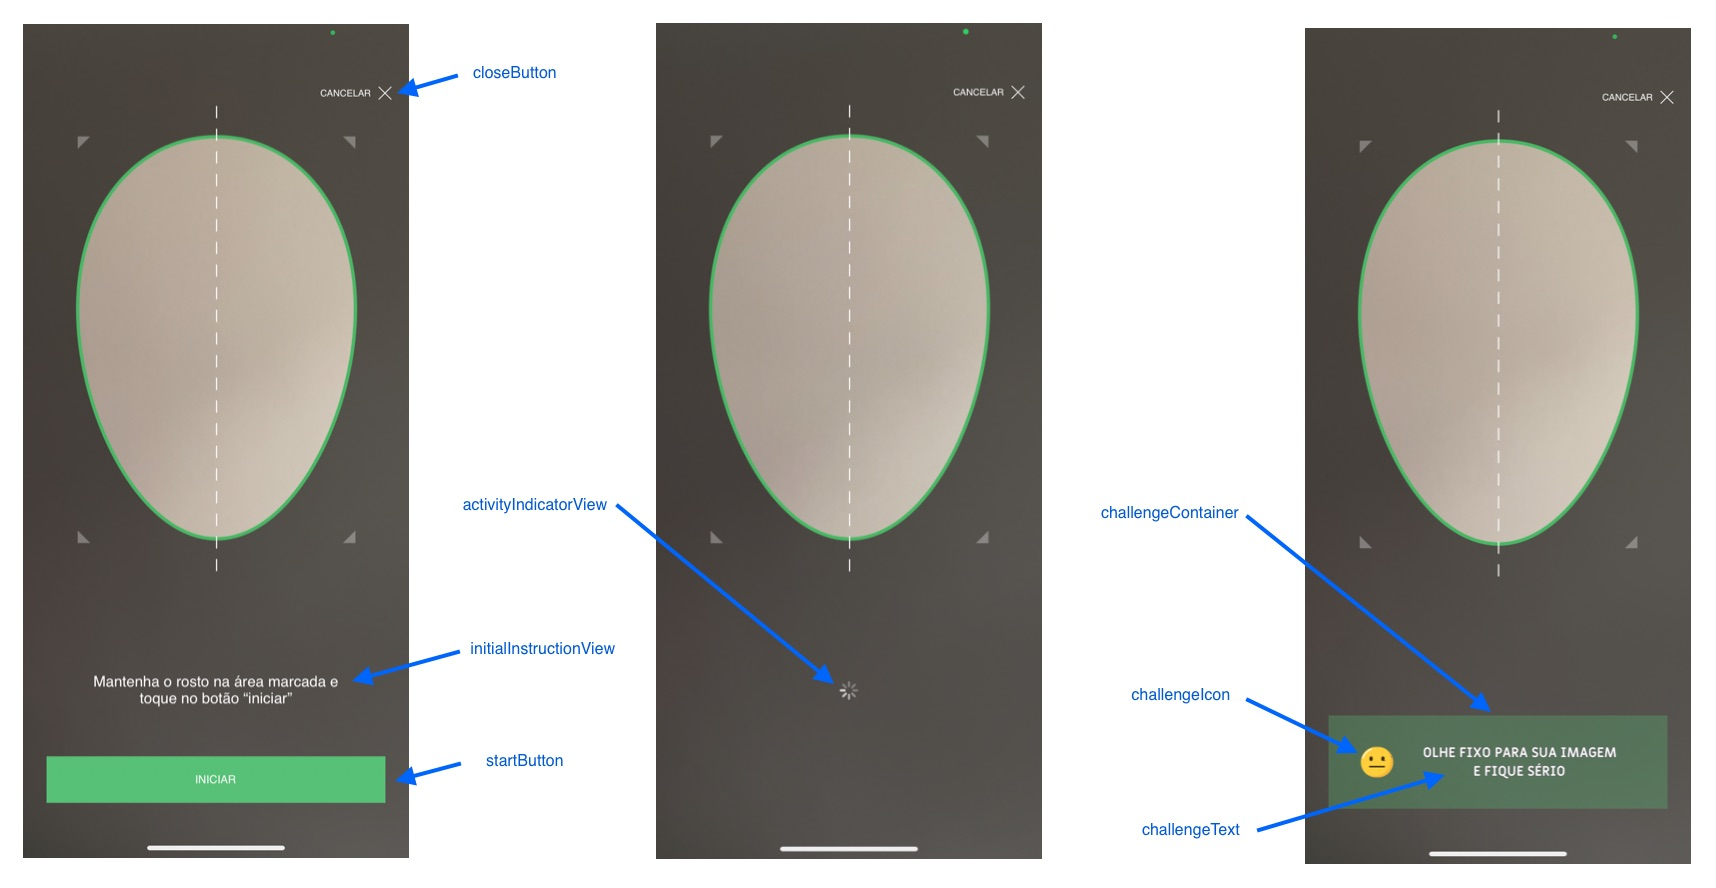
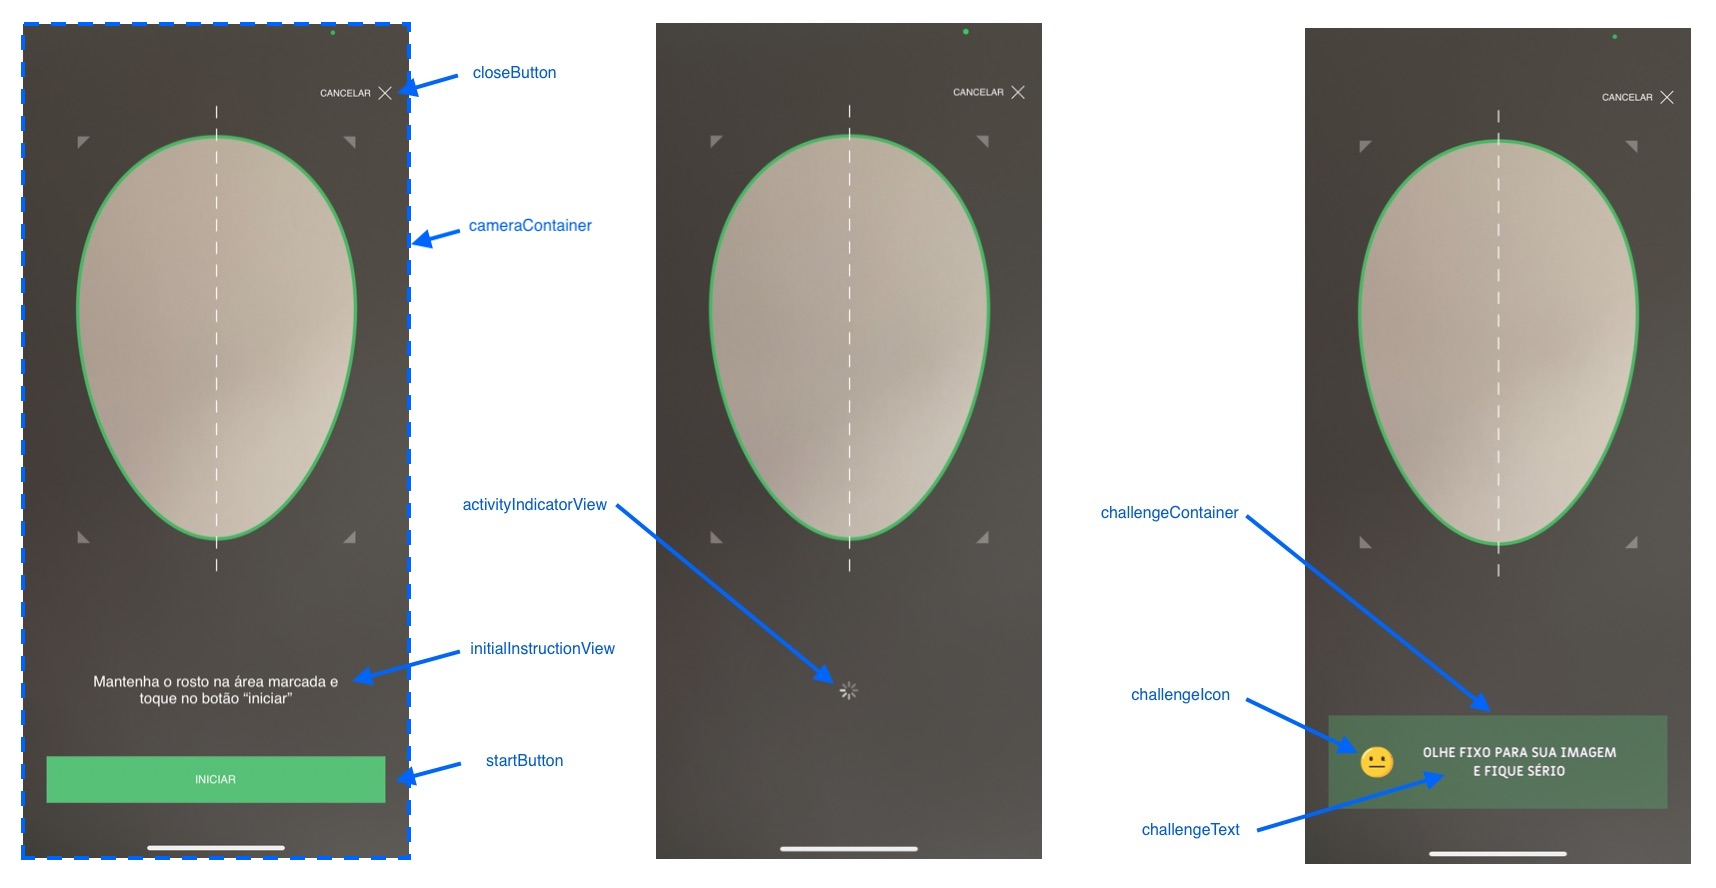
Documentation for 3.0.0.

Changed region(s): [[0.0, 0.9426, 0.2471, 0.973], [0.0309, 0.0, 0.2162, 0.0304], [0.2162, 0.2432, 0.3397, 0.2736]]

diff --git a/SampleFaceCaptcha/SampleFaceCaptcha/CustomViews/DocConfirmationCustomView.swift b/SampleFaceCaptcha/SampleFaceCaptcha/CustomViews/DocConfirmationCustomView.swift
@@ -14,7 +14,7 @@ class DocConfirmationCustomView: UIView, DocConfirmationView {
 
     @IBOutlet weak var view: UIView!
 
-    // MARK: - FCView
+    // MARK: - DocConfirmationView
 
     @IBOutlet weak var container: UIView!
     @IBOutlet weak var pictureTwoContainer: UIView!

diff --git a/SampleFaceCaptcha/SampleFaceCaptcha/CustomViews/FaceCaptchaCustomView.swift b/SampleFaceCaptcha/SampleFaceCaptcha/CustomViews/FaceCaptchaCustomView.swift
@@ -14,7 +14,7 @@ class FaceCaptchaCustomView: UIView, FaceCaptchaView {
 
     @IBOutlet weak var view: UIView!
 
-    // MARK: - FCView
+    // MARK: - FaceCaptchaView
 
     @IBOutlet weak var cameraContainer: CameraPreviewView!
     @IBOutlet weak var startButton: UIButton!

diff --git a/Documentation/FaceCaptcha-Usage.md b/Documentation/FaceCaptcha-Usage.md
@@ -1,0 +1,102 @@
+# Liveness - Prova de Vida
+
+Guia de uso e integração do Liveness para iOS.
+
+### Iniciando o FaceCaptcha
+
+1. Importe o FaceCaptcha no controller onde irá usá-lo:
+```swift
+import FaceCaptcha
+```
+
+2. Instancie `DocumentscopyViewController`, passando os seguintes parâmetros:
+- *appKey*: App Key recebida previamente.
+- *baseURL*: URL apontando para o ambiente desejado.
+- *delegate*: delegate que implementará os métodos para tratar o retorno do FaceCaptcha.
+```swift
+let controller = FaceCaptchaViewController(appKey: appKey,
+                                           baseURL: baseURL,
+                                           delegate: self)
+```
+
+3. Apresente o controller instanciado:
+```swift
+controller.modalPresentationStyle = .fullScreen
+present(controller, animated: true, completion: nil)
+```
+
+### Customização
+
+Além de poder usar o SDK em sua forma padrão de exibição, são fornecidas duas formas de customização:
+
+1. Imagem de fundo customizada:
+Para exibir uma imagem de fundo (overlay da câmera) customizada, basta passar a imagem desejada para o construtor do `FaceCaptchaViewController`, através do parâmetro `cameraOverlay`. Exemplo:
+```swift
+let controller = FaceCaptchaViewController(appKey: appKey,
+                                           baseURL: baseURL,
+                                           delegate: self,
+                                           cameraOverlay: UIImage(named: "custom_overlay")
+```
+
+2. Visual completamente customizado:
+É possível configurar completamente o visual exibido pelo FaceCaptcha. Para isso, é necessário criar uma UIView que implemente o protocolo `FaceCaptchaView`, e passá-la para o construtor do `FaceCaptchaViewController` através do parâmetro `customView`. Exemplo:
+```swift
+// MyCustomView must implement FaceCaptchaView
+let customView: FaceCaptchaView = MyCustomView(frame: view.bounds)
+let controller = FaceCaptchaViewController(appKey: appKey,
+                                           baseURL: baseURL,
+                                           delegate: self,
+                                           customView: customView)
+```
+Detalhes de como implementar a view customizada são encontrados [neste link](FaceCaptcha-CustomView.md).
+
+
+### Tratando o retorno
+
+1. Implemente o protocolo `FaceCaptchaDelegate` para ser notificado sobre a conclusão da prova de vida:
+```swift
+public protocol FaceCaptchaDelegate: class {
+    func handleFaceCaptchaValidation(validateModel: FCValidCaptchaModel)
+    func handleFaceCaptchaError(error: FaceCaptchaError)
+    func handleFaceCaptchaCanceled()
+}
+```
+
+Este protocolo contém dois métodos:
+
+- *handleFaceCaptchaValidation*: recebe um objeto do tipo `FCValidCaptchaModel`, no qual é possível verificar se a prova de vida foi válida, e, caso não tenha sido, o motivo pelo qual falhou.
+- *handleFaceCaptchaError*: recebe um enum do tipo `FaceCaptchaError`, que indica o erro ocorrido.
+- *handleFaceCaptchaCanceled*: método chamado se o usuário clicar no botão fechar/cancelar.
+
+**Importante:** em todos os métodos, deve-se fazer o dismiss do controller:
+```swift
+dismiss(animated: true, completion: nil)
+```
+
+`FaceCaptchaError` pode assumir os seguintes valores:
+```swift
+/// Erros que podem ser retornados pelo FaceCaptcha.
+public enum FaceCaptchaError {
+
+    /// App Key inválido.
+    case invalidAppKey
+    /// Certiface offline.
+    case certifaceOff
+    /// Não foi concedida permissão de acesso à câmera do aparelho.
+    case noCameraPermission
+    /// Sem conexão à Internet.
+    case noInternetConnection
+    /// Chamada telefônica em andamento. Não é possível iniciar o desafio durante uma chamada telefônica.
+    case phoneCallInProgress
+    /// Erro na requisição de validação dos desafios.
+    case validationError
+    /// App foi minimizado durante o uso do FaceCaptcha, isso faz com que o desafio seja encerrado.
+    case challengeInterrupted
+    /// Erro inesperado em algum request
+    case requestError
+    /// Falha em configurar câmera
+    case errorCameraSetup
+    /// Erro ao capturar foto
+    case errorCapturePicture
+}
+```

diff --git a/Documentation/FaceCaptcha-CustomView.md b/Documentation/FaceCaptcha-CustomView.md
@@ -1,13 +1,15 @@
 # Liveness - Guia de implementação de view customizada
 
-A partir da versão 2.0.0, o SDK Liveness permite que a forma de visualização seja completamente customizada. Para isto, é necessária a criação de uma `UIView` (via código ou via Interface Builder) que implemente o protocolo `FCView`, que especifica alguns componentes que a view em questão precisa conter:
+A partir da versão 2.0.0, o SDK Liveness permite que a forma de visualização seja completamente customizada. Para isto, é necessária a criação de uma `UIView` (via código ou via Interface Builder) que implemente o protocolo `FaceCaptchaView`, que especifica alguns componentes que a view em questão precisa conter:
 
 ```swift
 /// Protocolo que deve ser implementado pela view customizada
-public protocol FCView: UIView {
+public protocol FaceCaptchaView: UIView {
 
     // MARK: - Views obrigatórias
 
+    /// Nesta view será colocado o preview da câmera.
+    var cameraContainer: CameraPreviewView! { get }
     /// UIButton para iniciar o desafio
     var startButton: UIButton! { get }
     /// UIButton para interromper e fechar o desafio
@@ -36,17 +38,15 @@ Na figura abaixo é possível visualizar o que cada uma das subviews representa 
 
 ![Componentes da view customizada](Images/custom_view_components.jpg)
 
-Após criada a view, é necessário passá-la para o construtor do `FCCameraCapture` através do parâmetro `customView`. Exemplo:
+Após criada a view, é necessário passá-la para o construtor do `FaceCaptchaViewController` através do parâmetro `customView`. Exemplo:
 
 ```swift
-// MyCustomView must implement FCView
-let customView: FCView = MyCustomView(frame: view.bounds)
-faceCaptcha = FCCameraCapture(appkey: appKey,
-                              baseURL: baseURL,
-                              viewController: self,
-                              delegate: self,
-                              showSetupErrors: false,
-                              customView: customView)
+// MyCustomView must implement FaceCaptchaView
+let customView: FaceCaptchaView = MyCustomView(frame: view.bounds)
+let controller = FaceCaptchaViewController(appKey: appKey,
+                                           baseURL: baseURL,
+                                           delegate: self,
+                                           customView: customView)
 ```
 
 No projeto Sample, neste mesmo repositório, encontra-se um exemplo de implementação.

diff --git a/README.md b/README.md
@@ -14,7 +14,7 @@ source 'https://github.com/oititec/liveness-ios-specs.git'
 ```
 2. Após isso, adicione a dependência:
 ```rb
-pod 'FaceCaptcha', '~> 2.2.0'
+pod 'FaceCaptcha', '~> 3.0.0'
 ```
 3. Rode `pod install`.
 
@@ -26,13 +26,13 @@ Para adicionar o SDK manualmente no seu projeto, siga estas [instruções](Docum
 
 ### Permissões de acesso
 
- No `Info.plist` do projeto, adicione as descrições de uso de câmera (`Privacy - Camera Usage Description`) e microfone (`Privacy - Microphone Usage Description`):
+ No `Info.plist` do projeto, adicione a descrição de uso de câmera (`Privacy - Camera Usage Description`):
 
 ![Instalação 4](Documentation/Images/installation_4.png)
 
 ### Liveness - Prova de Vida
 
-As instruções de uso e integração do Liveness podem ser acessadas [neste link](Documentation/Liveness-Usage.md).
+As instruções de uso e integração do FaceCaptcha podem ser acessadas [neste link](Documentation/FaceCaptcha-Usage.md).
 
 ### Documentoscopia
 
@@ -52,5 +52,6 @@ Um exemplo de implementação pode ser encontrado no projeto [SampleFaceCaptcha]
 
 ## Guias de migração
 
+- [3.0.0](Documentation/Migration-Guide-3.0.0.md) - BREAKING CHANGE
 - [2.0.0](Documentation/Migration-Guide-2.0.0.md) - BREAKING CHANGE
 - [1.2.0](Documentation/Migration-Guide-1.2.0.md) - BREAKING CHANGE

diff --git a/Documentation/Migration-Guide-3.0.0.md b/Documentation/Migration-Guide-3.0.0.md
@@ -1,0 +1,21 @@
+# FaceCaptcha 3.0.0 - Guia de migração
+
+#### Guia de migração para a versão 3.0.0 da SDK FaceCaptcha iOS.
+
+1. A permissão de microfone agora pode ser removida (caso seu aplicativo não a utilize para nenhuma outra função).
+
+2. A classe `FCCameraCapture` não existe mais. Deve-se usar o controller `FaceCaptchaViewController` em seu lugar. Para mais informações sobre como usá-lo, acesse [este link.](FaceCaptcha-Usage.md)
+
+3. O protocolo `FCCameraCaptureDelegate` agora se chama `FaceCaptchaDelegate`.
+
+4. A assinatura dos métodos do `FaceCaptchaDelegate` (antigo `FCCameraCaptureDelegate`) mudaram para:
+```swift
+public protocol FaceCaptchaDelegate: class {
+    func handleFaceCaptchaValidation(validateModel: FCValidCaptchaModel)
+    func handleFaceCaptchaError(error: FaceCaptchaError)
+    func handleFaceCaptchaCanceled()
+}
+```
+5. O protocolo `FCView` (para as views customizadas) agora se chama `FaceCaptchaView`.
+
+6. A view customizada agora necessita obrigatoriamente da subview `cameraContainer`, que deve ser do tipo `CameraPreviewView` (esta classe faz parte do SDK do FaceCaptcha). Para mais detalhes, acesse [este link.](CustomView.md)

diff --git a/Documentation/Migration-Guide-2.0.0.md b/Documentation/Migration-Guide-2.0.0.md
@@ -1,8 +1,8 @@
-# Liveness 2.0.0 - Guia de migração
+# FaceCaptcha 2.0.0 - Guia de migração
 
-#### Guia de migração para a versão 2.0.0 da SDK Liveness iOS.
+#### Guia de migração para a versão 2.0.0 da SDK FaceCaptcha iOS.
 
-1. Agora é possível implementar sua própria view customizada para ser exibida pelo Liveness. Para isto, consulte [este guia.](CustomView.md)
+1. Agora é possível implementar sua própria view customizada para ser exibida pelo FaceCaptcha. Para isto, consulte [este guia.](CustomView.md)
 
 2. O construtor da classe `FCCameraCapture` agora possui a seguinte assinatura:
 ```swift

diff --git a/Documentation/Migration-Guide-1.2.0.md b/Documentation/Migration-Guide-1.2.0.md
@@ -1,6 +1,6 @@
-# Liveness 1.2.0 - Guia de migração
+# FaceCaptcha 1.2.0 - Guia de migração
 
-#### Guia de migração para a versão 1.2.0 da SDK Liveness iOS.
+#### Guia de migração para a versão 1.2.0 da SDK FaceCaptcha iOS.
 
 1. Devido a algumas melhorias em relação ao gerenciamento de memória, agora é necessário manter uma referência para o objeto da classe `FCCameraCapture` no controller que o estiver usando.
 Esta referência deve ser desalocada assim que algum dos métodos do protocolo `FCCameraCaptureDelegate` forem chamados.

diff --git a/Documentation/Changelog.md b/Documentation/Changelog.md
@@ -1,5 +1,9 @@
 # Changelog
 
+#### [3.0.0](Migration-Guide-3.0.0.md) - BREAKING CHANGE
+- Alteração na forma como são capturadas as fotos do FaceCaptcha, fazendo com que não seja mais necessária a permissão de microfone.
+- Alteração nos nomes de classes e protocolos referentes ao FaceCatpcha.
+
 #### 2.2.0
 - [Documentoscopia com view customizável.](Documentscopy-CustomView.md)
 - Ajuste na qualidade das imagens do Liveness.
